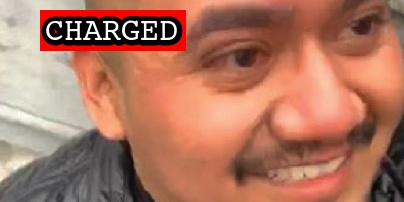
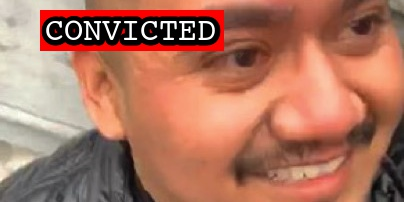
Latest import

Changed region(s): [[0.1485, 0.0297, 0.5644, 0.2673]]

diff --git a/docs/_suspects/alexis-bustos.md b/docs/_suspects/alexis-bustos.md
@@ -4,11 +4,11 @@ lastName: Bustos
 hashtag:
 aka:
 residence: California
-status: Charged
+status: Convicted
 date: 2021-09-29
 charged: 2021-09-29
 indicted:
-convicted:
+convicted: 2022-11-07
 acquitted:
 sentenced:
 dismissed:
@@ -31,7 +31,7 @@ raid:
 perpwalk:
 quote:
 title: Alexis Bustos charged on September 29, 2021
-description: Click for latest case details. Suspects innocent until proven guilty.
+description: Convicted on November 0, 2022. Click for latest case details.
 author: seditiontrack
 layout: suspect
 published: true
@@ -40,8 +40,14 @@ caseName: USA v. BUSTOS
 judge: Carl J. Nichols
 videos:
 charges:
+- code: 40 USC § 5104(e)(2)(G)
+  title: Parading, demonstrating or picketing in a Capitol building
+  url: https://www.law.cornell.edu/uscode/text/40/5104
+  felony: false
 sentence:
 ---
 - [News Report](https://www.presstelegram.com/2021/11/30/2-long-beach-men-charged-in-connection-to-capitol-insurrection/)
-- [Statement of Facts](https://extremism.gwu.edu/sites/g/files/zaxdzs2191/f/Bryan%20Bustos%20and%20Alexis%20Bustos%20Statement%20of%20Facts.pdf)
-- [Information](https://extremism.gwu.edu/sites/g/files/zaxdzs2191/f/Bryan%20Bustos%20and%20Alexis%20Bustos%20Information.pdf)
+- [Statement of Facts](https://www.justice.gov/usao-dc/case-multi-defendant/file/1550026/download)
+- [Information](https://www.justice.gov/usao-dc/case-multi-defendant/file/1550041/download)
+- [Plea Agreement](https://www.justice.gov/usao-dc/case-multi-defendant/file/1550046/download)
+- [Statement of Offense](https://www.justice.gov/usao-dc/case-multi-defendant/file/1550051/download)

diff --git a/docs/_suspects/bryan-bustos.md b/docs/_suspects/bryan-bustos.md
@@ -4,11 +4,11 @@ lastName: Bustos
 hashtag:
 aka:
 residence: California
-status: Charged
+status: Convicted
 date: 2021-09-29
 charged: 2021-09-29
 indicted:
-convicted:
+convicted: 2022-11-07
 acquitted:
 sentenced:
 dismissed:
@@ -31,7 +31,7 @@ raid:
 perpwalk:
 quote:
 title: Bryan Bustos charged on September 29, 2021
-description: Click for latest case details. Suspects innocent until proven guilty.
+description: Convicted on November 0, 2022. Click for latest case details.
 author: seditiontrack
 layout: suspect
 published: true
@@ -40,8 +40,14 @@ caseName: USA v. BUSTOS
 judge: Carl J. Nichols
 videos:
 charges:
+- code: 40 USC § 5104(e)(2)(G)
+  title: Parading, demonstrating or picketing in a Capitol building
+  url: https://www.law.cornell.edu/uscode/text/40/5104
+  felony: false
 sentence:
 ---
 - [News Report](https://www.presstelegram.com/2021/11/30/2-long-beach-men-charged-in-connection-to-capitol-insurrection/)
-- [Statement of Facts](https://extremism.gwu.edu/sites/g/files/zaxdzs2191/f/Bryan%20Bustos%20and%20Alexis%20Bustos%20Statement%20of%20Facts.pdf)
-- [Information](https://extremism.gwu.edu/sites/g/files/zaxdzs2191/f/Bryan%20Bustos%20and%20Alexis%20Bustos%20Information.pdf)
+- [Statement of Facts](https://www.justice.gov/usao-dc/case-multi-defendant/file/1550036/download)
+- [Information](https://www.justice.gov/usao-dc/case-multi-defendant/file/1550056/download)
+- [Plea Agreement](https://www.justice.gov/usao-dc/case-multi-defendant/file/1550061/download)
+- [Statement of Offense](https://www.justice.gov/usao-dc/case-multi-defendant/file/1550066/download)
